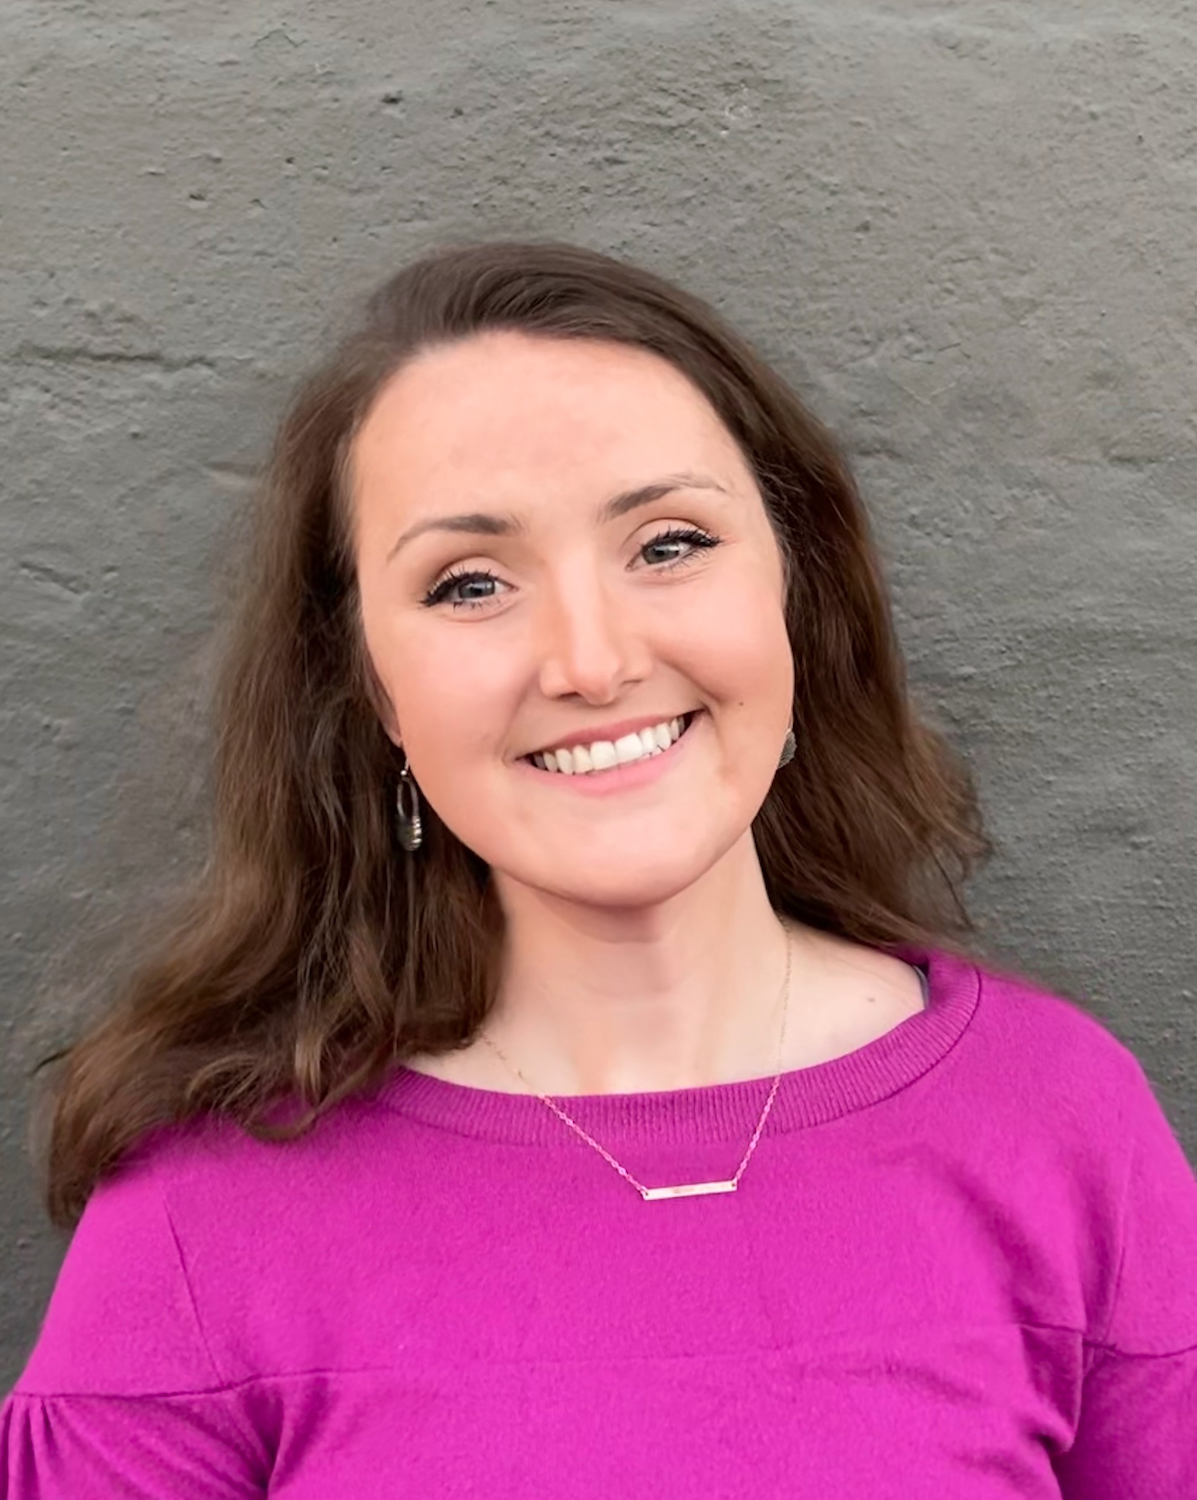
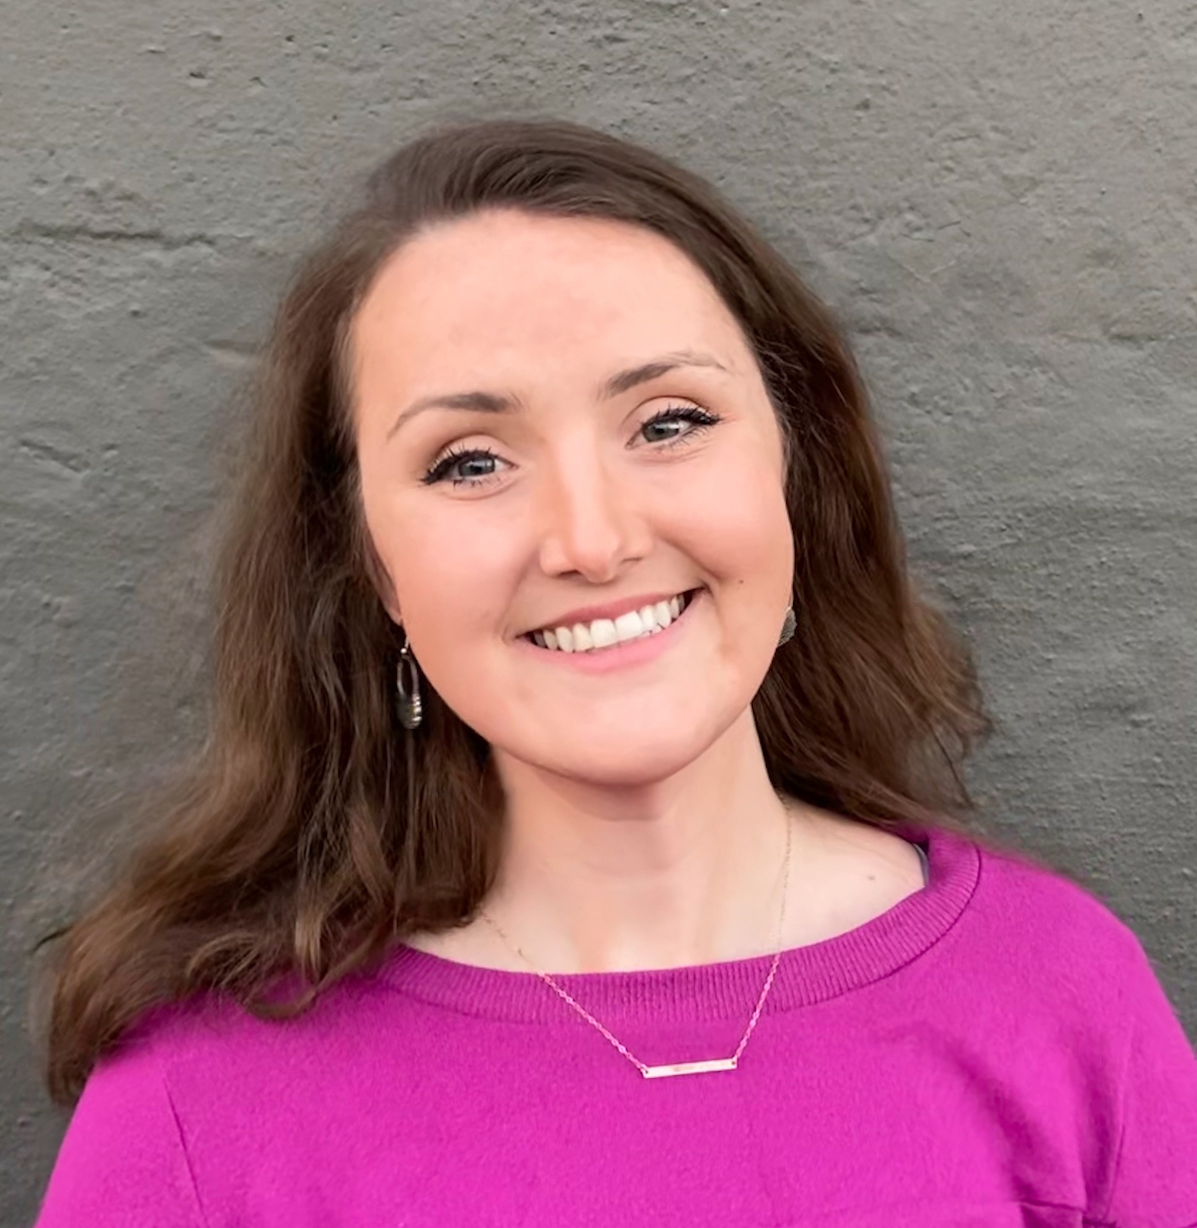
update image and about

diff --git a/_pages/about.md b/_pages/about.md
@@ -6,19 +6,25 @@ description: <a href="https://iog.wayne.edu">Postdoctoral Fellow</a> studying th
 
 profile:
   align: right
-  image: Kelsey_round.png
+  image: Kelsey.jpg
   address: >
     <p>Institute of Gerontology</p>
     <p>87 East Ferry Street</p>
     <p>Detroit, MI. 48202</p>
 
-news: true  # includes a list of news items
+news: false  # includes a list of news items
 selected_papers: true # includes a list of papers marked as "selected={true}"
 social: true  # includes social icons at the bottom of the page
 ---
 
-Write your biography here. Tell the world about yourself. Link to your favorite . You can put a picture in, too. The code is already in, just name your picture `prof_pic.jpg` and put it in the `img/` folder.
+My long-term goal is to conduct multidisciplinary and collaborative research on the healthy development of hippocampal subfields in order to understand the role of this structure in supporting cognitive gains observed across development.
+
+Throughout my work, I have been captivated by the individual differences in children’s development at multiple levels—from neurobiology to cognition—and the environmental factors that explain these differences. Thus, my program of research examines normative development and the factors that modify healthy brain and cognitive development. 
+
+Specifically, my research focuses on the development of episodic memory and its neural correlates in children between the ages of 4- to 8-years. To answer questions about how the brain and memory co-develop I utilize a combination of behavioral measures and neuroimaging (both MRI and EEG), with a focus onlongitudinal analyses (mixed-effect models, latent growth models). I am also interested in the neural computational process supporting memory (e.g., pattern separation) in relation to specific subfields of the hippocampus.
 
 I am currently a Postdoctoral Fellow working with both [Dr. Noa Ofen](http://ofenlab.wayne.edu){:target="\_blank"} and [Dr. Ana Daugherty](https://s.wayne.edu/healthyaging/){:target="\_blank"} at Wayne State Univeristy.
+
+I completed my doctoral training in Cognitive and Neural Systems program within the Psychology Department at the University of Maryland under the advisement of [Dr. Tracy Riggins](http://ncdl.umd.edu){:target="\_blank"}. 
 
 You can find my full [CV](https://kcanada.github.io/assets/pdf/Canada_Kelsey_CV_21.pdf){:target="\_blank"} here.
